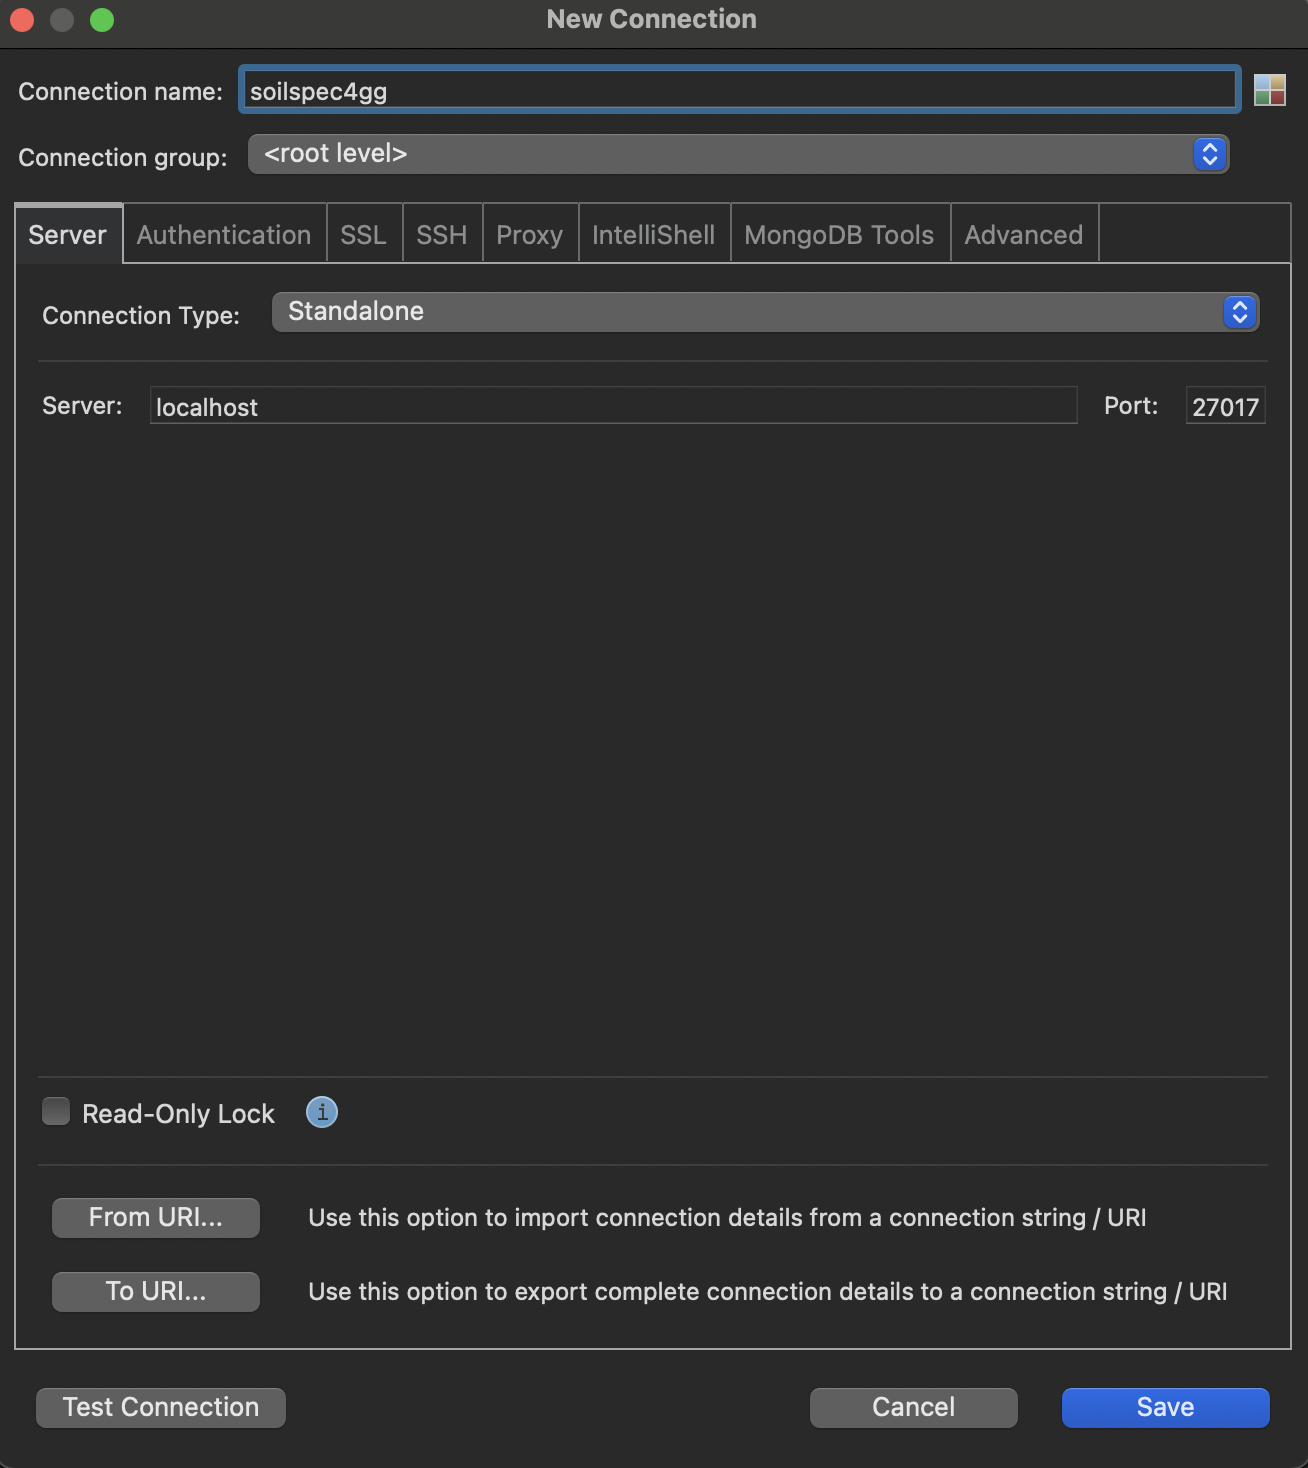
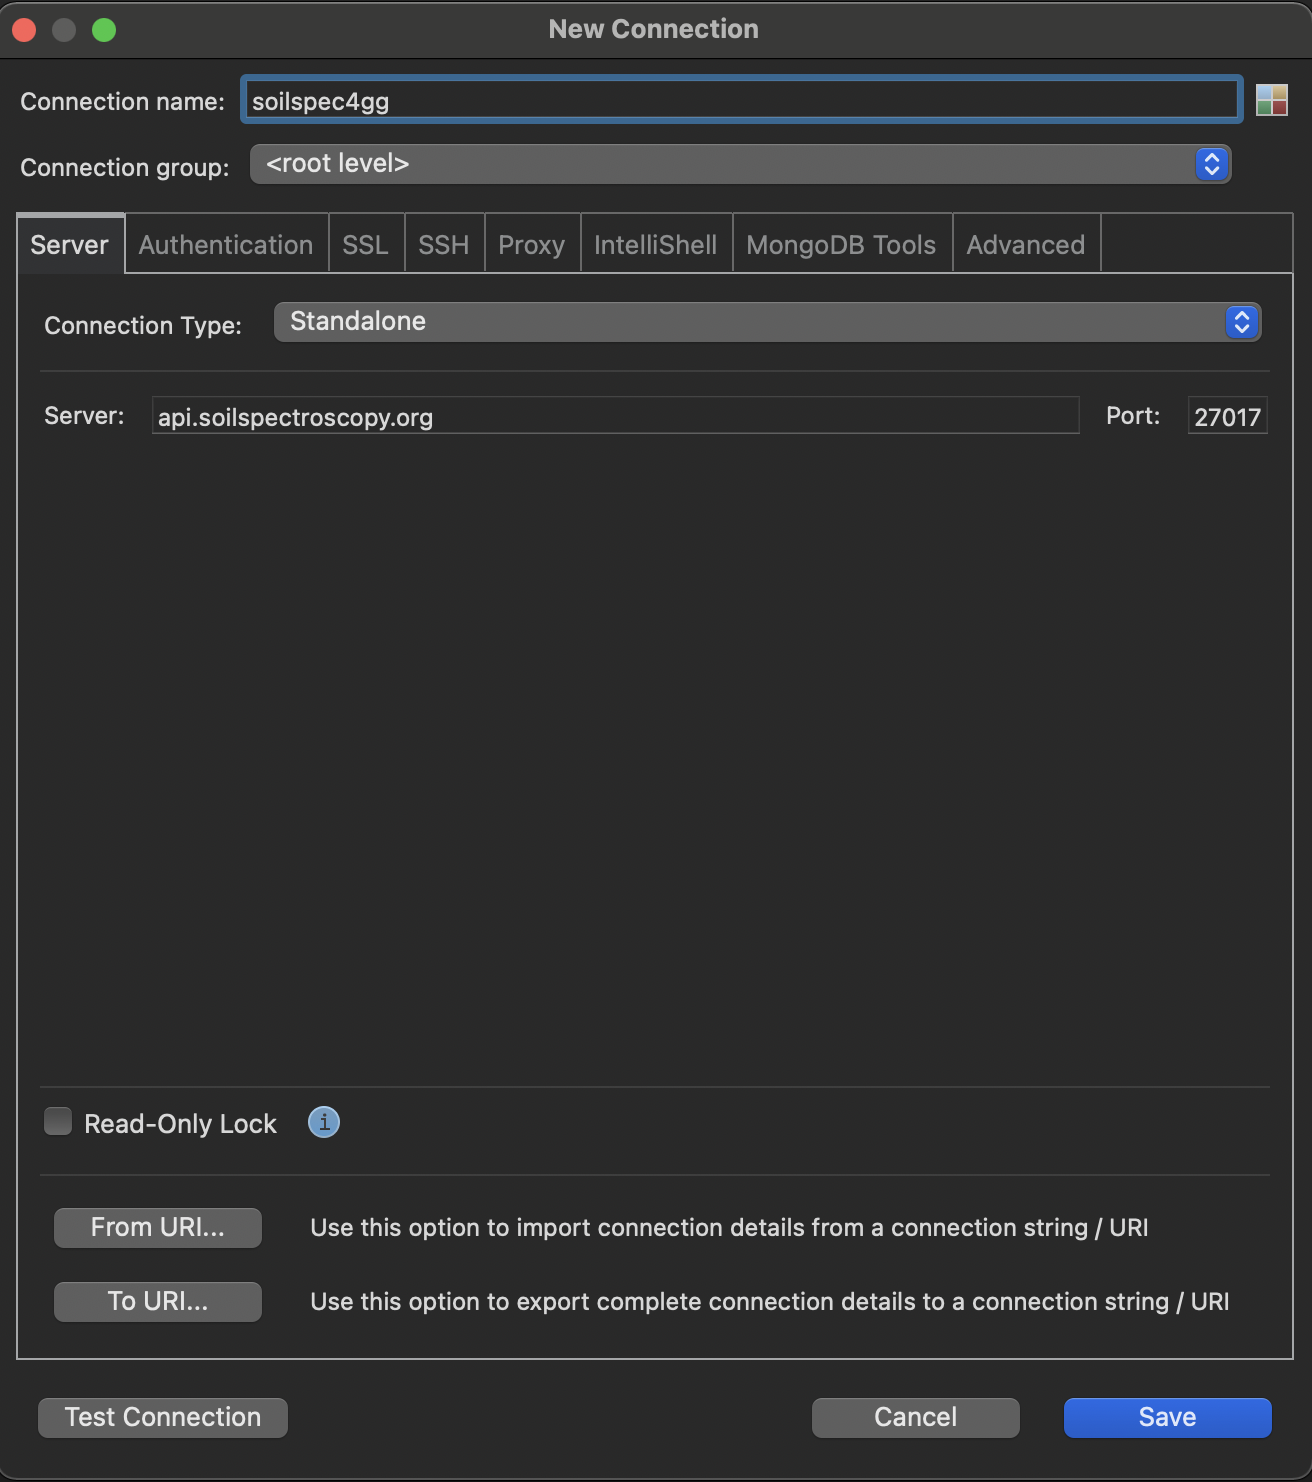
updates blog content

diff --git a/README.md b/README.md
@@ -91,7 +91,7 @@ Step 2: In Studio 3T,
   <!-- image                                       -->
   <!------------------------------------------------->
   ![auth step1](images/auth_screen1.png)
-- Fill in the Connecttions name: `soilspec4gg`
+- Fill in the Connection name: `soilspec4gg` and, in the `Server` tab, fill with OSSL's given address: `api.soilspectroscopy.org`
   <!------------------------------------------------->
   <!-- image                                       -->
   <!------------------------------------------------->
@@ -115,113 +115,18 @@ Step 2: In Studio 3T,
   <!------------------------------------------------->
   <!-- image                                       -->
   <!------------------------------------------------->
+
   ![auth step5](images/auth_screen5.png)
 
----
+- Test Connection before saving:
+  <!------------------------------------------------->
+  <!-- image                                       -->
+  <!------------------------------------------------->
+
+  ![auth step6](images/auth_screen6.png)
 
 - Finally, click save and connect.
     <!------------------------------------------------->
     <!-- image                                       -->
     <!------------------------------------------------->
-  ![auth step6](images/auth_screen6.png)
-  Open a terminal and install Base R on OSX
-
-```sh
-brew install r
-```
-
-### Step 2: install [RStudio](https://www.rstudio.com/products/rstudio/download/#download)
-
-### Step 3: install [mongolite](https://jeroen.github.io/mongolite/index.html#install-mongolite-in-r)
-
-![rstudio](images/rstudio_install_package.png)
-
-## cert error
-
-![cert_error](images/cert_error.png)
-
-## using mMongoDb in r
-
-[How to Use R with MongoDB](https://www.mongodb.com/languages/mongodb-and-r-example)
-
-```R
-connection_string = 'mongodb+srv://<username>:<password>@<cluster-name>.mongodb.net/sample_training'
-trips_collection = mongo(collection="trips", db="sample_training", url=connection_string)
-```
-
-## fixing the cert error with options
-
-```R
-trips_collection = mongo(collection="soillab", url=connection_string, options = ssl_options(weak_cert_validation = T))
-```
-
-## queries are not working
-
-```R
-> trips_collection$count('{}')
-Error: not authorized on test to execute command { aggregate: "soillab", cursor: {}, pipeline: [ { $match: {} }, { $group: { _id: 1, n: { $sum: 1 } } } ], $db: "test", lsid: { id: UUID("b1e14775-e7f2-4a2e-9ee5-e58507553e73") } }
-> trips_collection$info()
-Error: not authorized on test to execute command { serverStatus: 1, $db: "test", lsid: { id: UUID("b1e14775-e7f2-4a2e-9ee5-e58507553e73") } }
-> trips_collection$info({})
-Error in trips_collection$info({ : unused argument ({
-})
-> trips_collection$find({limit=10})
-Error: argument must be bson or json.
-> trips_collection$find(limit=10)
-Error: not authorized on test to execute command { find: "soillab", filter: {}, projection: { _id: 0 }, sort: {}, skip: 0, limit: 10, noCursorTimeout: false, $db: "test", lsid: { id: UUID("b1e14775-e7f2-4a2e-9ee5-e58507553e73") } }
->
-```
-
-## Studio 3T for Connecting to MongoDB
-
-1. [3T](https://studio3t.com)
-
-![connection string](images/mongoconn.png)
-
-Install mongoDB:
-
-```
-npm install mongodb
-```
-
-Verify version:
-
-```
-npm list mongodb
-```
-
-Step 1: Connect to MongoDB
-
-```
-var MongoClient = require('mongodb').MongoClient;
-var assert = require('assert');
-```
-
-Step 2: Retrive a list of databases
-
-Step 3:Printing the results to your console
-
----
-
----
-
-# Keywords
-
-1. KCl extractable
-1. labile soil
-1. RMSE (Root Mean Squared Error)
-   ML | Mathematical explanation of RMSE and R-squared errorhttps://www.geeksforgeeks.org › ml-mathematical-expl...
-   Jun 6, 2022 — RMSE: Root Mean Square Error is the measure of how well a regression line fits the data points. RMSE can also be construed as Standard ...
-1. Feature selection
-
----
-
----
-
-1. [mongodb](https://soilspectroscopy.github.io/ossl-manual/index.html#ossl-mongodb)
-
-# Tools and Libraries
-
----
-
----
+  ![auth step7](images/auth_screen7.png)

diff --git a/notes.md b/notes.md
@@ -1,0 +1,101 @@
+### Open a terminal and install Base R on OSX
+
+```sh
+brew install r
+```
+
+### Step 2: install [RStudio](https://www.rstudio.com/products/rstudio/download/#download)
+
+### Step 3: install [mongolite](https://jeroen.github.io/mongolite/index.html#install-mongolite-in-r)
+
+![rstudio](images/rstudio_install_package.png)
+
+## cert error
+
+![cert_error](images/cert_error.png)
+
+## using mMongoDb in r
+
+[How to Use R with MongoDB](https://www.mongodb.com/languages/mongodb-and-r-example)
+
+```R
+connection_string = 'mongodb+srv://<username>:<password>@<cluster-name>.mongodb.net/sample_training'
+trips_collection = mongo(collection="trips", db="sample_training", url=connection_string)
+```
+
+## fixing the cert error with options
+
+```R
+trips_collection = mongo(collection="soillab", url=connection_string, options = ssl_options(weak_cert_validation = T))
+```
+
+## queries are not working
+
+```R
+> trips_collection$count('{}')
+Error: not authorized on test to execute command { aggregate: "soillab", cursor: {}, pipeline: [ { $match: {} }, { $group: { _id: 1, n: { $sum: 1 } } } ], $db: "test", lsid: { id: UUID("b1e14775-e7f2-4a2e-9ee5-e58507553e73") } }
+> trips_collection$info()
+Error: not authorized on test to execute command { serverStatus: 1, $db: "test", lsid: { id: UUID("b1e14775-e7f2-4a2e-9ee5-e58507553e73") } }
+> trips_collection$info({})
+Error in trips_collection$info({ : unused argument ({
+})
+> trips_collection$find({limit=10})
+Error: argument must be bson or json.
+> trips_collection$find(limit=10)
+Error: not authorized on test to execute command { find: "soillab", filter: {}, projection: { _id: 0 }, sort: {}, skip: 0, limit: 10, noCursorTimeout: false, $db: "test", lsid: { id: UUID("b1e14775-e7f2-4a2e-9ee5-e58507553e73") } }
+>
+```
+
+## Studio 3T for Connecting to MongoDB
+
+1. [3T](https://studio3t.com)
+
+![connection string](images/mongoconn.png)
+
+Install mongoDB:
+
+```
+npm install mongodb
+```
+
+Verify version:
+
+```
+npm list mongodb
+```
+
+Step 1: Connect to MongoDB
+
+```
+var MongoClient = require('mongodb').MongoClient;
+var assert = require('assert');
+```
+
+Step 2: Retrive a list of databases
+
+Step 3:Printing the results to your console
+
+---
+
+---
+
+# Keywords
+
+1. KCl extractable
+1. labile soil
+1. RMSE (Root Mean Squared Error)
+   ML | Mathematical explanation of RMSE and R-squared errorhttps://www.geeksforgeeks.org › ml-mathematical-expl...
+   Jun 6, 2022 — RMSE: Root Mean Square Error is the measure of how well a regression line fits the data points. RMSE can also be construed as Standard ...
+1. Feature selection
+
+---
+
+---
+
+1. [mongodb](https://soilspectroscopy.github.io/ossl-manual/index.html#ossl-mongodb)
+
+# Tools and Libraries
+
+---
+
+---
